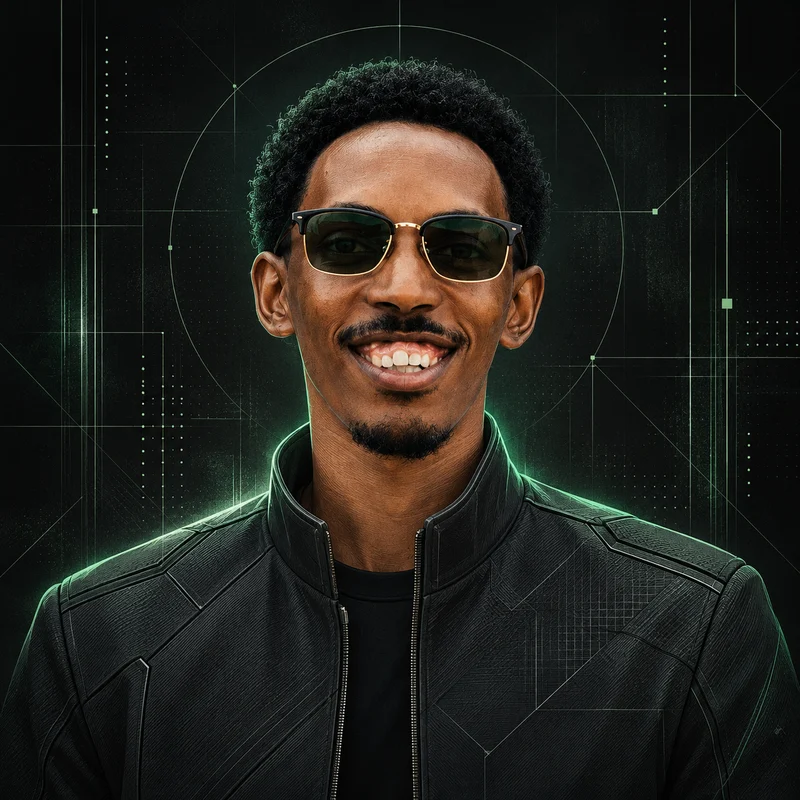
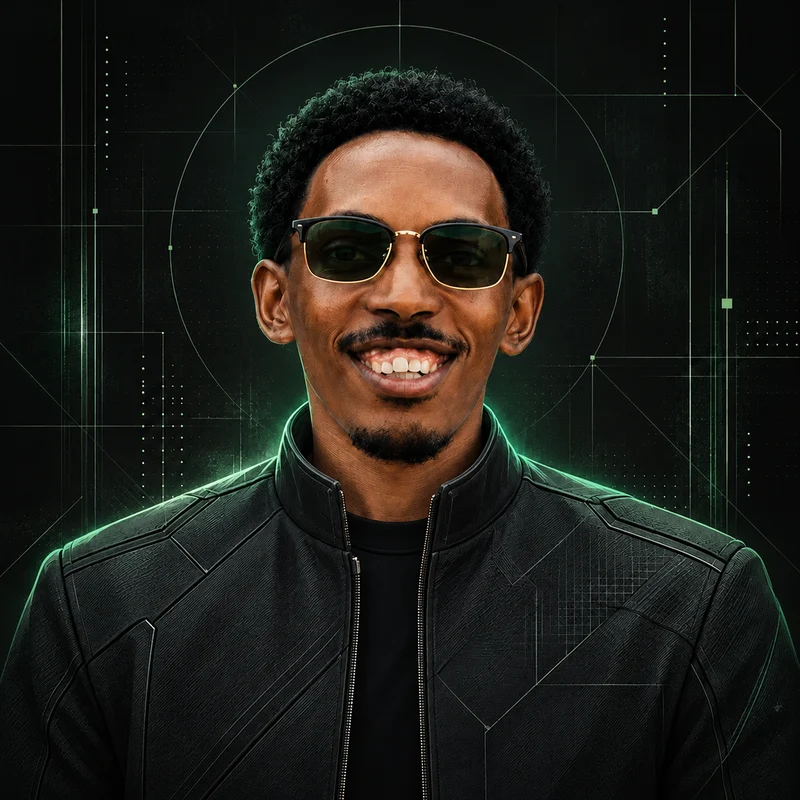
fix(portrait): correct neck and shoulder proportions

diff --git a/docs/DESIGN.md b/docs/DESIGN.md
@@ -22,3 +22,5 @@ Favicon prompt: simplify the same portrait into broad geometric face shapes with
 The hero centers the illustrated portrait inside code-native orbit rings and connection lines. Labels connect interface, systems and people; motion is slow and respects reduced-motion preferences. The lower profile uses `public/images/eric-at-work.webp`, created with the built-in image-generation tool from the supplied `eric2.jpg`. The similar `eric3.jpg` was omitted to keep the page focused.
 
 Editorial photo prompt: preserve Eric's recognizable face, glasses, expression, clothing, gesture, hands and laptop; retain photographic realism, reduce purple/cyan casts, use warm natural skin tones, subdued shadows and restrained film grain, and simplify the indoor background. No added circuit graphics, costumes or text.
+
+Portrait anatomy correction: the built-in image-generation tool shortened the visible neck and raised the collar and shoulder line for natural head-to-body proportions, preserving likeness, glasses, expression, jacket, background and sage lighting. The corrected asset replaces `public/images/eric-future.webp`.
